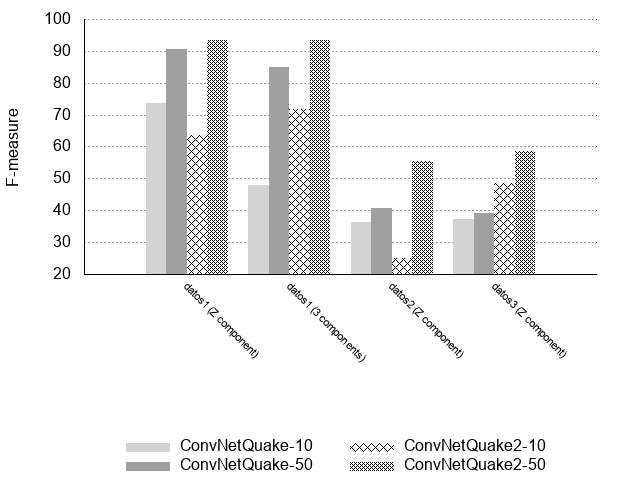
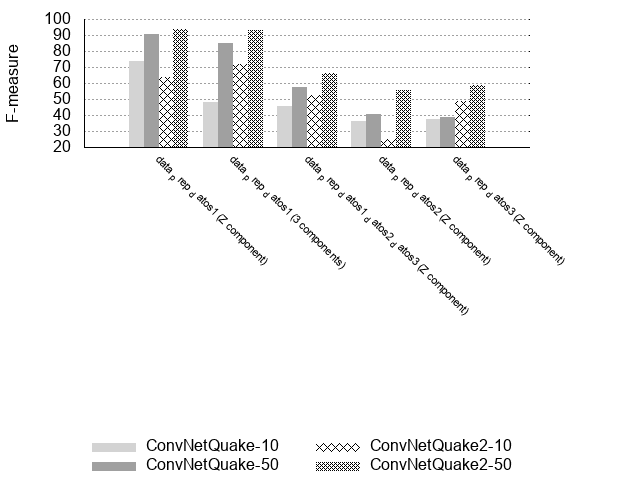
nc

diff --git a/results.py b/results.py
@@ -47,26 +47,26 @@ class Results():
                 rs.results.append(r)
         return rs
 
-    def get_list_of_datasets(self): 
+    def get_list_of_datasets(self, n_clusters): 
         datasets = []
         for r in self.results:
-            if r.dataset not in datasets:
+            if r.dataset not in datasets and r.n_clusters == n_clusters:
                 datasets.append(r.dataset)
         datasets.sort()
         return datasets
 
-    def get_list_of_window_sizes(self): 
+    def get_list_of_window_sizes(self, n_clusters): 
         window_sizes = []
         for r in self.results:
-            if r.window_size not in window_sizes:
+            if r.window_size not in window_sizes and r.n_clusters == n_clusters:
                 window_sizes.append(r.window_size)
         window_sizes.sort()
         return window_sizes
 
-    def get_list_of_models(self): 
+    def get_list_of_models(self, n_clusters): 
         models = []
         for r in self.results:
-            if r.model not in models:
+            if r.model not in models and r.n_clusters == n_clusters:
                 models.append(r.model)
         models.sort()
         return models
@@ -100,10 +100,10 @@ class Results():
                 return True
         return False
 
-    def export_gnuplot_fmeasures(self, writer): 
-        datasets = self.get_list_of_datasets()
-        models = self.get_list_of_models()
-        windows_sizes = self.get_list_of_window_sizes()
+    def export_gnuplot_fmeasures(self, n_clusters, writer): 
+        datasets = self.get_list_of_datasets(n_clusters)
+        models = self.get_list_of_models(n_clusters)
+        windows_sizes = self.get_list_of_window_sizes(n_clusters)
         writer.write("Dataset")
         writer.write("\t\t\t\t")
         for model in models:  
@@ -114,23 +114,33 @@ class Results():
             writer.write("\""+dataset+" (Z component)\"\t\t") 
             for model in models:  
                 for windows_size in windows_sizes:
-                    r =  self.get_result(dataset, windows_size, model, 1, 2)
+                    r =  self.get_result(dataset, windows_size, model, 1, n_clusters)
                     writer.write(str(r.f1)+"\t")  
             #Not all datasets have results with 3 components
-            if self.any_result(dataset, windows_sizes[0], models[0], 3, 2):
+            if self.any_result(dataset, windows_sizes[0], models[0], 3, n_clusters):
                 writer.write("\n") 
                 writer.write("\""+dataset+" (3 components)\"\t\t") 
                 for model in models:  
                     for windows_size in windows_sizes:
-                        r =  self.get_result(dataset, windows_size, model, 3, 2)
+                        r =  self.get_result(dataset, windows_size, model, 3, n_clusters)
                         writer.write(str(r.f1)+"\t") 
-        writer.write("\n")       
+        writer.write("\n")   
+
+
+    def export_gnuplot_windowsizes(self, dataset, model, n_traces, n_clusters, writer): 
+        windows_sizes = self.get_list_of_window_sizes(n_clusters)
+        writer.write("Window")
+        writer.write("\t f1 \t  precision \t recall \t accuracy  \n")  
+        for windows_size in windows_sizes:  
+        	r =  self.get_result(dataset, windows_size, model, 1, n_clusters)
+        	writer.write(str(windows_size) + "\t" + str(r.f1) + "\t" + str(r.precision) + "\t" + str(r.recall) + "\t" + str(r.accuracy) + "\t")     
+       		writer.write("\n")       
 
 
     def export_gnuplot_location_accuracy_per_windowsize(self, n_clusters, writer):
-        datasets = self.get_list_of_datasets()
-        models = self.get_list_of_models()
-        windows_sizes = self.get_list_of_window_sizes()
+        datasets = self.get_list_of_datasets(n_clusters)
+        models = self.get_list_of_models(n_clusters)
+        windows_sizes = self.get_list_of_window_sizes(n_clusters)
         writer.write("Dataset")
         writer.write("\t\t\t\t") 
         for model in models:  
@@ -213,34 +223,49 @@ if __name__ == "__main__":
     rs = Results.harvest_results(args.results_path, round = 1)
     
     with open(args.results_path+"/results_fmeasures.dat", "w") as f:
-        rs.export_gnuplot_fmeasures(f)
-        rs.export_gnuplot_fmeasures(sys.stdout)
+        rs.export_gnuplot_fmeasures(2, f)
+        rs.export_gnuplot_fmeasures(2, sys.stdout)
 
-    #with open(args.results_path+"/results_location_CL4.dat", "w") as f:
-    #    rs.export_gnuplot_location_accuracy_per_windowsize(4, f)
-    #    rs.export_gnuplot_location_accuracy_per_windowsize(4, sys.stdout)
+    with open(args.results_path+"/results_location_CL4.dat", "w") as f:
+        rs.export_gnuplot_location_accuracy_per_windowsize(4, f)
+        rs.export_gnuplot_location_accuracy_per_windowsize(4, sys.stdout)
+
+    #with open(args.results_path+"/results_location_CL6.dat", "w") as f:
+    #    rs.export_gnuplot_location_accuracy_per_windowsize(6, f)
+    #    rs.export_gnuplot_location_accuracy_per_windowsize(6, sys.stdout)
         
-#if __name__ == "__main__":
-#    print ("\033[92m******************** TESTING RESULTS MODULE *******************\033[0m ")
-#    
-#    r = Result.import_json("result_template.json")
-#    r.export_json("borrar.json")
-#    print("TEST 1 OK :-)")
-#
-#    rs = Results.harvest_results(round = 1)
-#    print("TEST 2 OK :-)")
-#
-#    with open("output/results_fmeasures.dat", "w") as f:
-#        rs.export_gnuplot_fmeasures(f)
-#        rs.export_gnuplot_fmeasures(sys.stdout)
-#
-#    with open("output/results_location_CL4.dat", "w") as f:
-#        rs.export_gnuplot_location_accuracy_per_windowsize(4, f)
-#        rs.export_gnuplot_location_accuracy_per_windowsize(4, sys.stdout)
+    with open(args.results_path+"/window_sizes_CL2_CO1_model1_datos1.dat", "w") as f:
+        rs.export_gnuplot_windowsizes("data_prep_datos1", "ConvNetQuake", 1, 2, f)
+        rs.export_gnuplot_windowsizes("data_prep_datos1", "ConvNetQuake", 1, 2, sys.stdout)
+
+    with open(args.results_path+"/window_sizes_CL2_CO1_model1_datos2.dat", "w") as f:
+        rs.export_gnuplot_windowsizes("data_prep_datos2", "ConvNetQuake", 1, 2, f)
+        rs.export_gnuplot_windowsizes("data_prep_datos2", "ConvNetQuake", 1, 2, sys.stdout)
+
+    with open(args.results_path+"/window_sizes_CL2_CO1_model1_datos3.dat", "w") as f:
+        rs.export_gnuplot_windowsizes("data_prep_datos3", "ConvNetQuake", 1, 2, f)
+        rs.export_gnuplot_windowsizes("data_prep_datos3", "ConvNetQuake", 1, 2, sys.stdout)
+
+    with open(args.results_path+"/window_sizes_CL2_CO1_model1_datos1_datos2_datos3.dat", "w") as f:
+        rs.export_gnuplot_windowsizes("data_prep_datos1_datos2_datos3", "ConvNetQuake", 1, 2, f)
+        rs.export_gnuplot_windowsizes("data_prep_datos1_datos2_datos3", "ConvNetQuake", 1, 2, sys.stdout)
 
 
 
+    with open(args.results_path+"/window_sizes_CL2_CO1_model2_datos1.dat", "w") as f:
+        rs.export_gnuplot_windowsizes("data_prep_datos1", "ConvNetQuake2", 1, 2, f)
+        rs.export_gnuplot_windowsizes("data_prep_datos1", "ConvNetQuake2", 1, 2, sys.stdout)
 
-    
+    with open(args.results_path+"/window_sizes_CL2_CO1_model2_datos2.dat", "w") as f:
+        rs.export_gnuplot_windowsizes("data_prep_datos2", "ConvNetQuake2", 1, 2, f)
+        rs.export_gnuplot_windowsizes("data_prep_datos2", "ConvNetQuake2", 1, 2, sys.stdout)
 
-        
+    with open(args.results_path+"/window_sizes_CL2_CO1_model2_datos3.dat", "w") as f:
+        rs.export_gnuplot_windowsizes("data_prep_datos3", "ConvNetQuake2", 1, 2, f)
+        rs.export_gnuplot_windowsizes("data_prep_datos3", "ConvNetQuake2", 1, 2, sys.stdout)
+
+    with open(args.results_path+"/window_sizes_CL2_CO1_model2_datos1_datos2_datos3.dat", "w") as f:
+        rs.export_gnuplot_windowsizes("data_prep_datos1_datos2_datos3", "ConvNetQuake2", 1, 2, f)
+        rs.export_gnuplot_windowsizes("data_prep_datos1_datos2_datos3", "ConvNetQuake2", 1, 2, sys.stdout)
+
+
